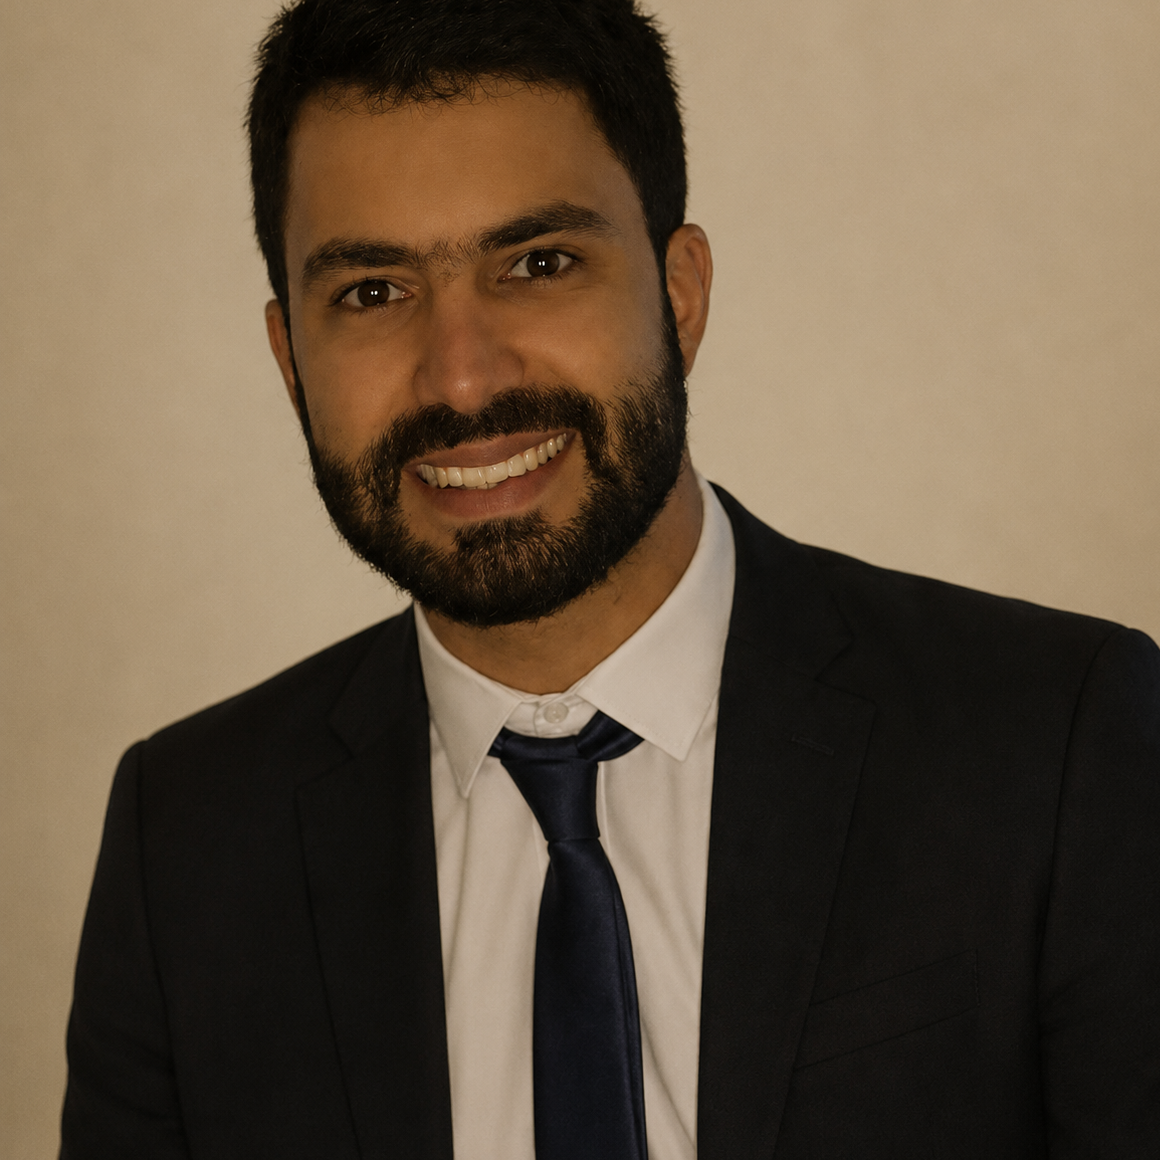
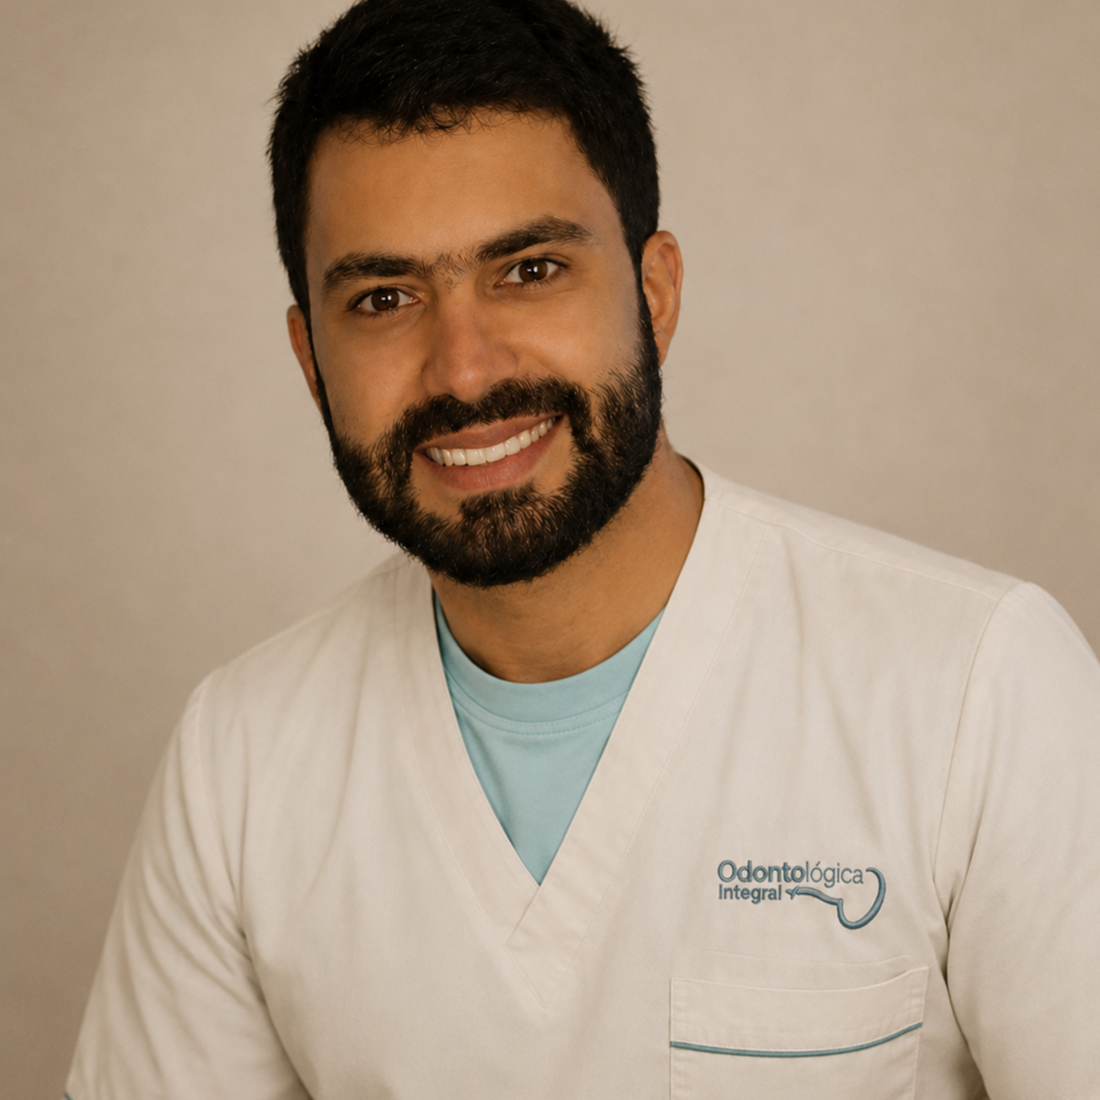
segundo commit: imagenes y direccion del mapa (no me compila)

diff --git a/components/contact.tsx b/components/contact.tsx
@@ -2,7 +2,7 @@ import { MapPin, Phone, Instagram, MessageCircle } from "lucide-react"
 import { site } from "@/lib/site"
 import { Reveal } from "@/components/reveal"
 
-const mapSrc = `https://www.google.com/maps?q=${encodeURIComponent(site.address)}&output=embed`
+const mapSrc = "https://www.google.com/maps/embed?pb=!1m18!1m12!1m3!1d3283.7067194717974!2d-68.33436202421908!3d-34.61157695791333!2m3!1f0!2f0!3f0!3m2!1i1024!2i768!4f13.1!3m3!1m2!1s0x967907e2cca1b1e9%3A0x9ae8919ee6f4e539!2sOdontologica%20Integral!5e0!3m2!1ses!2sar!4v1780674212634!5m2!1ses!2sar"
 const mapLink = `https://www.google.com/maps/search/?api=1&query=${encodeURIComponent(site.address)}`
 
 export function Contact() {
